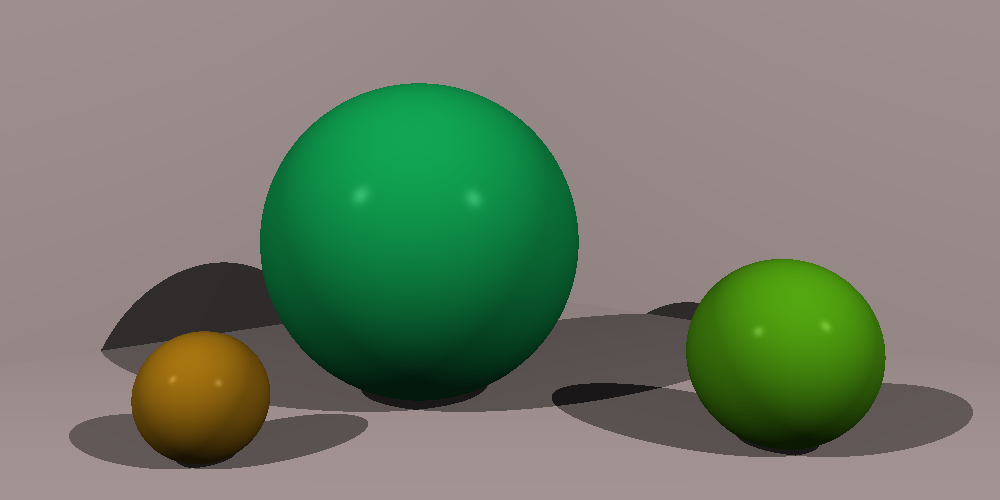
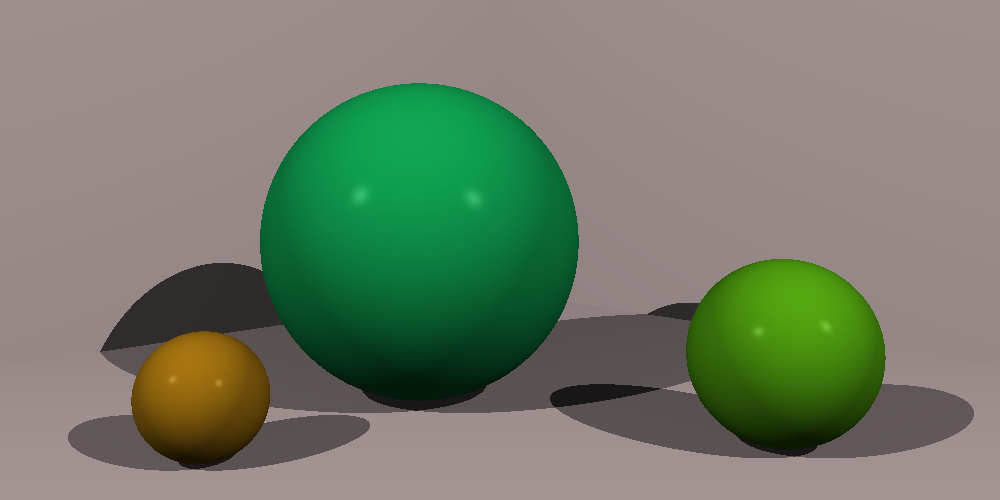
Update simple scene example to have planes.

diff --git a/examples/simple_scene.rs b/examples/simple_scene.rs
@@ -6,15 +6,14 @@ use truster::color::Color;
 use truster::light::PointLight;
 use truster::material::Material;
 use truster::matrix::Matrix;
-use truster::shape::{sphere::Sphere, Shape};
+use truster::shape::{plane::Plane, sphere::Sphere, Shape};
 use truster::tuple::Tuple;
 use truster::world::World;
 
 fn main() -> Result<(), Box<dyn std::error::Error>> {
 	let mut world = World::new();
 
-	let mut floor = Sphere::new();
-	floor.set_transform(Matrix::scaling(10.0, 0.01, 10.0));
+	let mut floor = Plane::new();
 	floor.set_material(Material {
 		color: Color::new(1.0, 0.9, 0.9),
 		specular: 0.0,
@@ -22,12 +21,11 @@ fn main() -> Result<(), Box<dyn std::error::Error>> {
 	});
 	world.add_shape(Rc::new(floor));
 
-	let mut left_wall = Sphere::new();
+	let mut left_wall = Plane::new();
 	left_wall.set_transform(
 		Matrix::translation(0.0, 0.0, 5.0)
 			* &Matrix::rotation_y(-PI / 4.0)
-			* &Matrix::rotation_x(PI / 2.0)
-			* &Matrix::scaling(10.0, 0.01, 10.0),
+			* &Matrix::rotation_x(PI / 2.0),
 	);
 	left_wall.set_material(Material {
 		color: Color::new(1.0, 0.9, 0.9),
@@ -36,12 +34,11 @@ fn main() -> Result<(), Box<dyn std::error::Error>> {
 	});
 	world.add_shape(Rc::new(left_wall));
 
-	let mut right_wall = Sphere::new();
+	let mut right_wall = Plane::new();
 	right_wall.set_transform(
 		Matrix::translation(0.0, 0.0, 5.0)
 			* &Matrix::rotation_y(PI / 4.0)
-			* &Matrix::rotation_x(PI / 2.0)
-			* &Matrix::scaling(10.0, 0.01, 10.0),
+			* &Matrix::rotation_x(PI / 2.0),
 	);
 	right_wall.set_material(Material {
 		color: Color::new(1.0, 0.9, 0.9),

diff --git a/src/world.rs b/src/world.rs
@@ -6,7 +6,7 @@ use crate::color::Color;
 use crate::intersection::{Hit, HitRecord, Intersection};
 use crate::light::PointLight;
 use crate::ray::Ray;
-use crate::shape::{sphere::Sphere, Shape};
+use crate::shape::Shape;
 use crate::tuple::Tuple;
 
 /// A 3D world which has shapes and lights.
@@ -23,7 +23,7 @@ impl World {
 	}
 
 	/// Adds `shape` to `self`.
-	pub fn add_shape(&mut self, shape: Rc<Sphere>) {
+	pub fn add_shape(&mut self, shape: Rc<dyn Shape>) {
 		self.shapes.push(shape);
 	}
 
@@ -97,6 +97,7 @@ mod tests {
 	use crate::color::Color;
 	use crate::material::Material;
 	use crate::matrix::Matrix;
+	use crate::shape::sphere::Sphere;
 
 	fn test_world() -> World {
 		let light = PointLight::new(Tuple::point(-10.0, 10.0, -10.0), Color::new(1.0, 1.0, 1.0));
